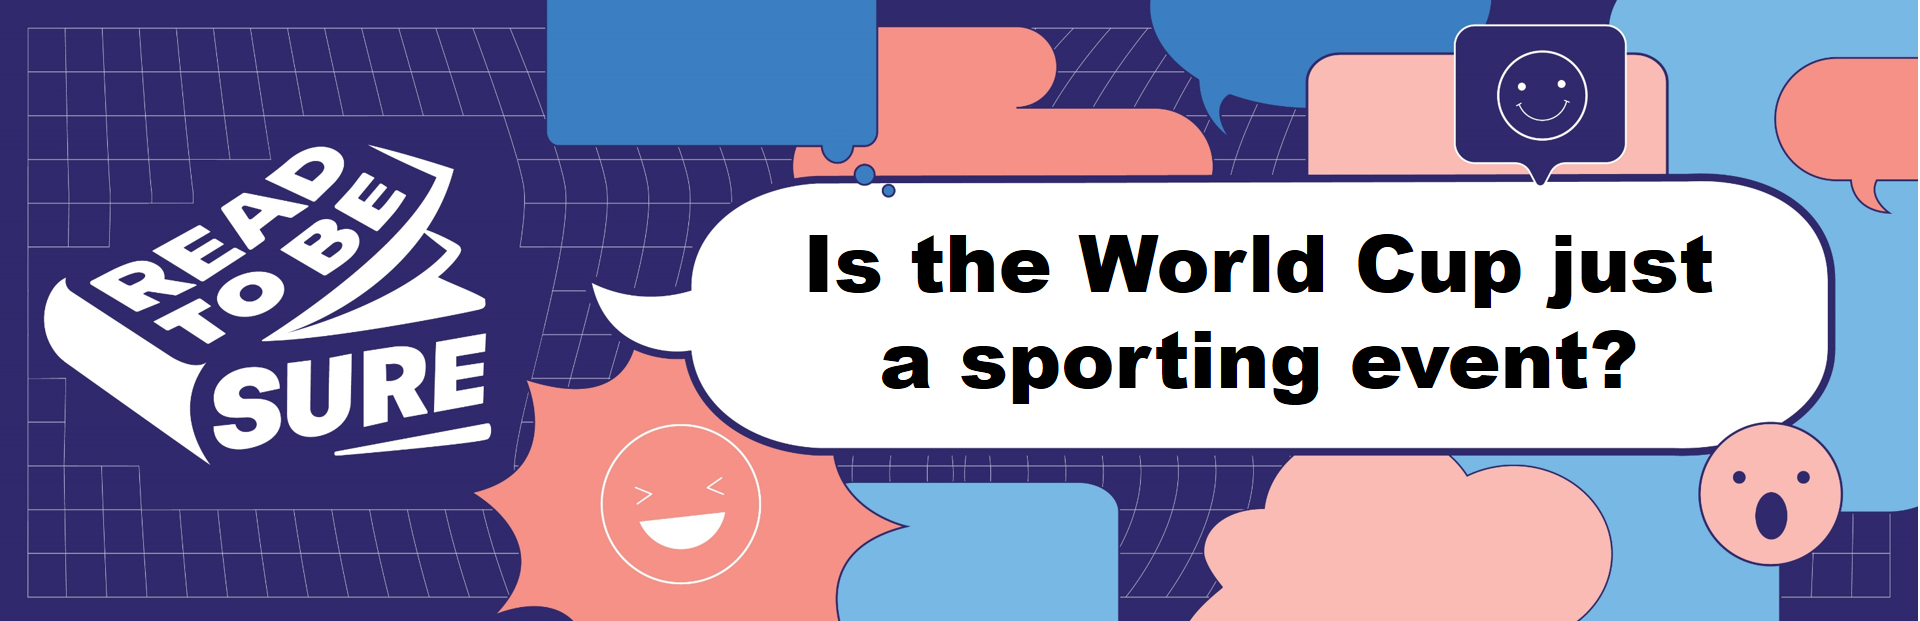
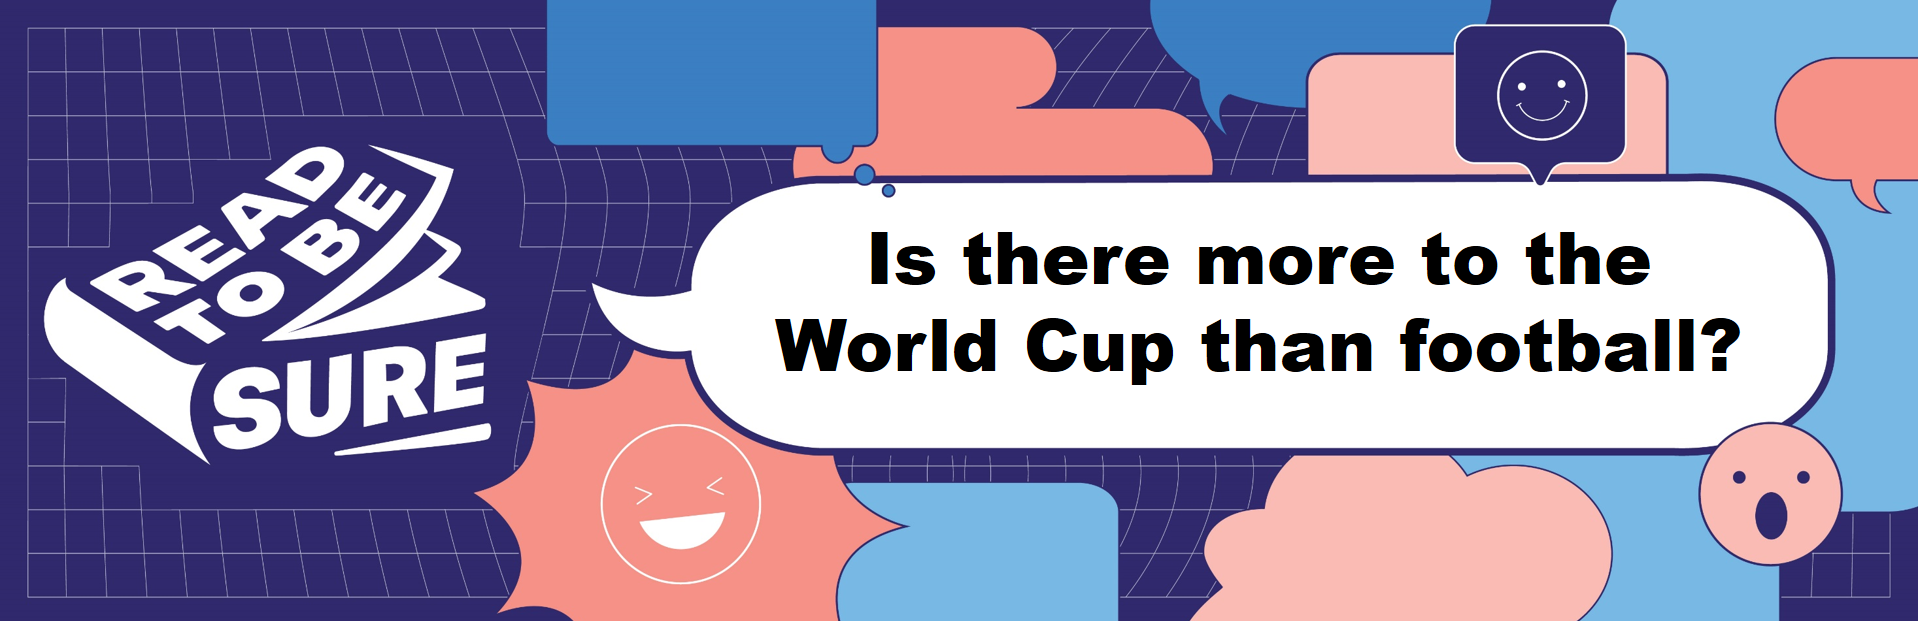
RTBS World Cup

Changed region(s): [[0.4062, 0.3671, 0.9062, 0.6731]]

diff --git a/index.md b/index.md
@@ -26,7 +26,7 @@ sections:
     - infopic:
           title: 'Read to be SURE, Special Issue 2 - World Cup 2022'
           subtitle: 'For everyone'
-          description: In this issue of Read to be SURE, explore multiple perspectives about the World Cup. Is it just a sporting event?
+          description: In this issue of Read to be SURE, explore multiple perspectives about the World Cup. Is there more to it than football?
           url: /read-to-be-sure-volume-2/special-issue1-worldcup/
           image: /images/rtbs-vol2-hottopic1-world-cup.jpg
           alt: 'alt text'
